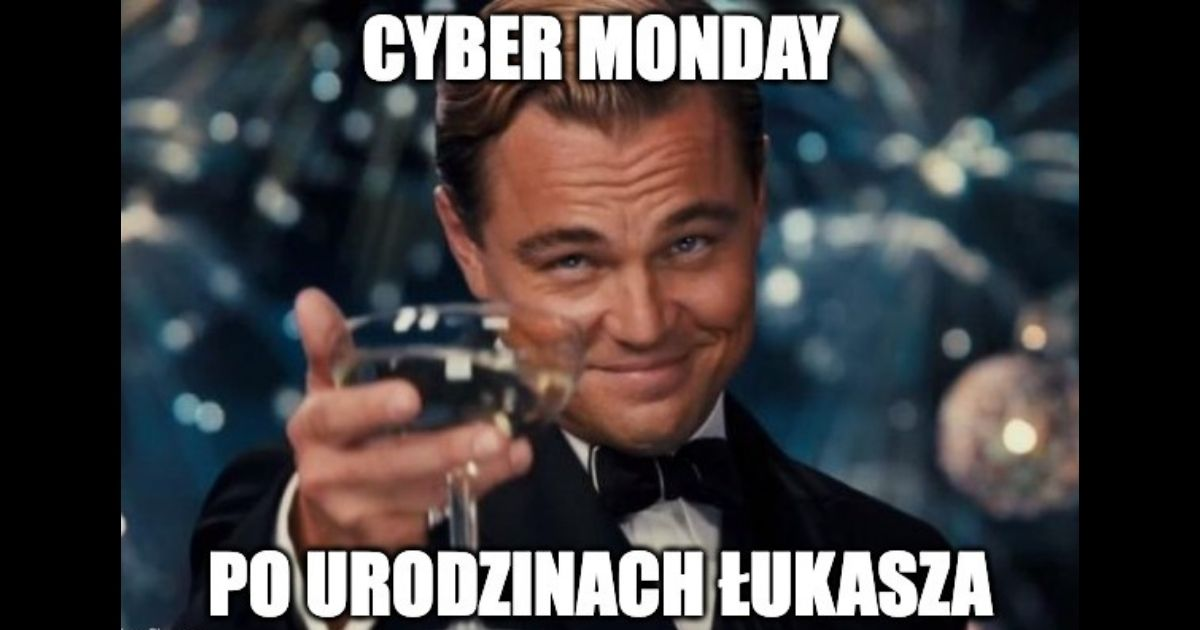
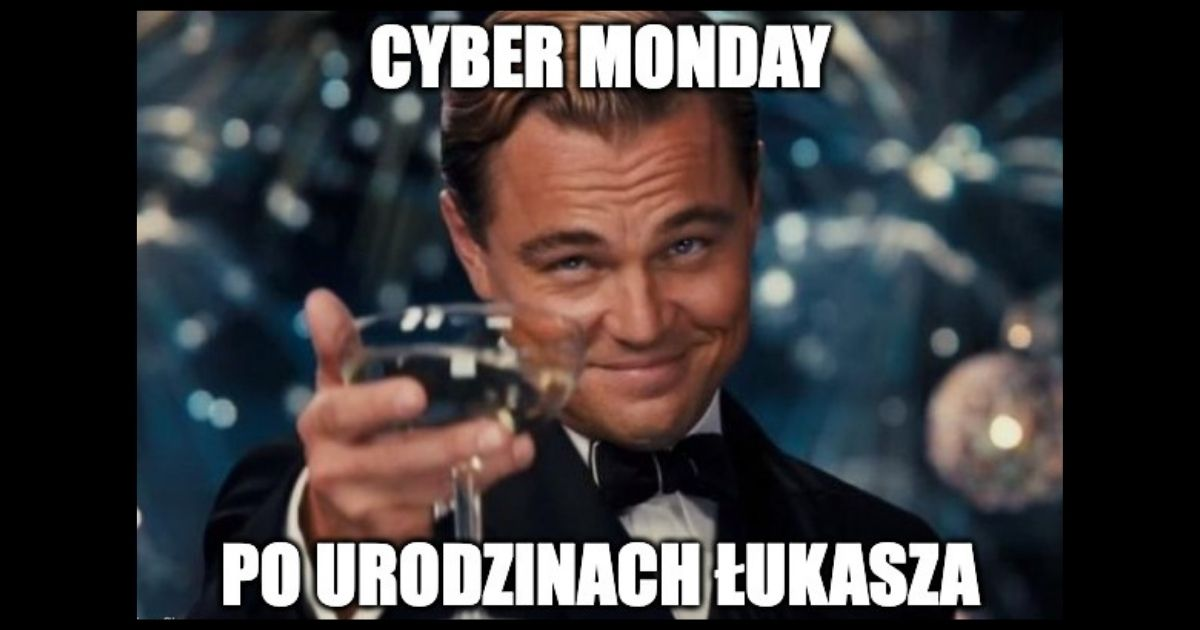
fix og-image

diff --git a/cyber-monday.html b/cyber-monday.html
@@ -9,7 +9,7 @@
   <meta name="description" content="Masz problem z deployment w Kubernetes? To idealnie trafiłeś :)" />
   <meta property="og:type" content="website" />
   <meta property="twitter:card" content="summary_large_image" />
-  <meta property="og:image" content="https://poznajkubernetes.github.io/images/og-image-cyber-monday.jpg?v3" />
+  <meta property="og:image" content="https://poznajkubernetes.github.io/images/og-image-cyber-monday.jpg?v4" />
 
   <!-- Stylesheets -->
   <link href="css/bootstrap.css" rel="stylesheet" />
